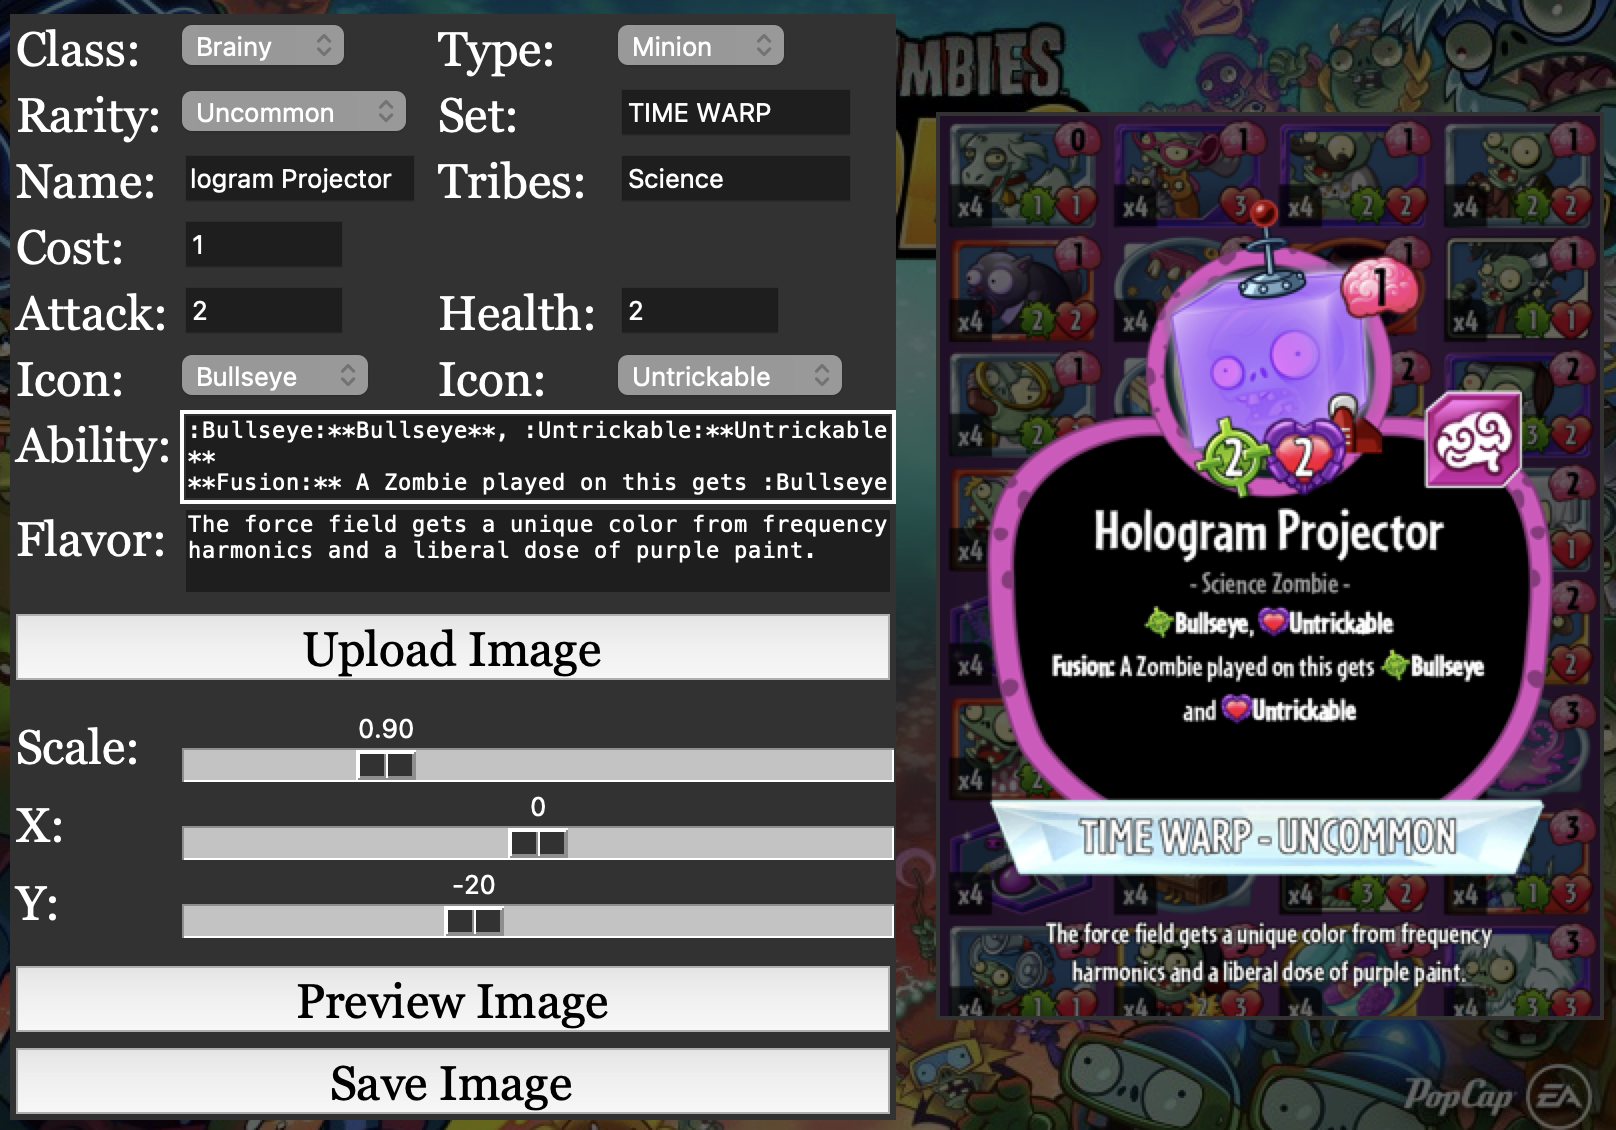
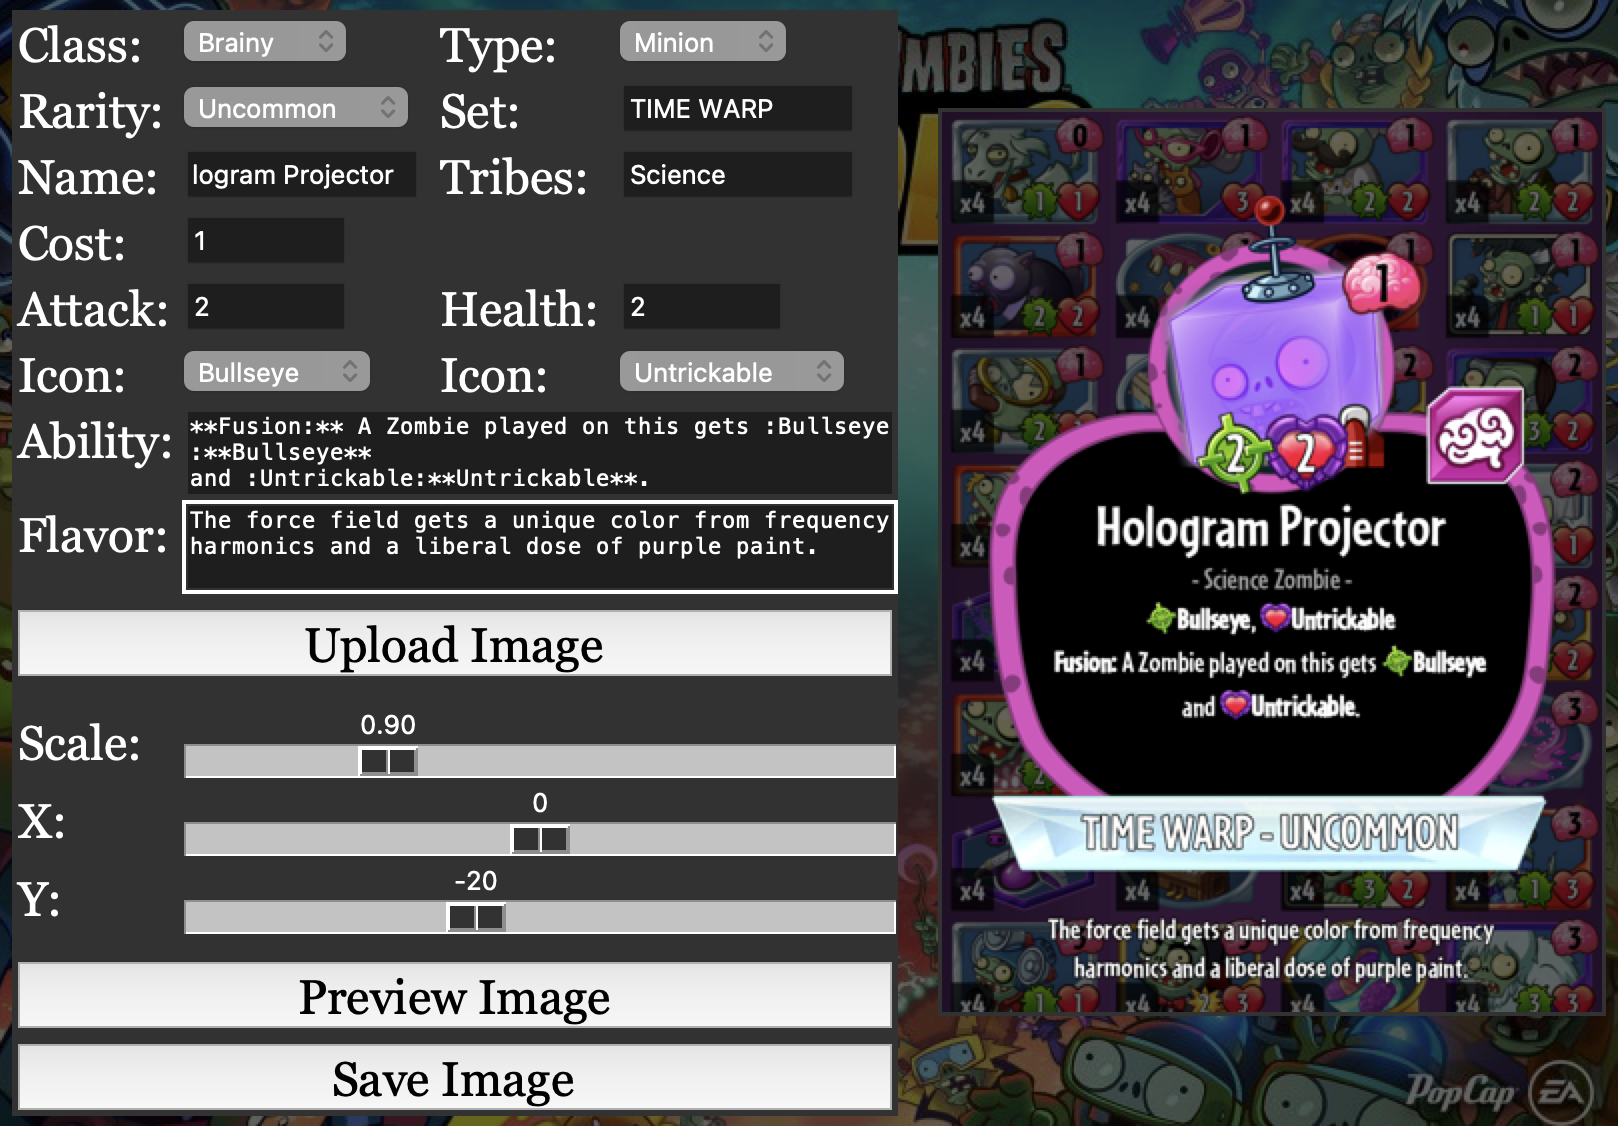
Updated readme.md

diff --git a/readme.md b/readme.md
@@ -2,10 +2,6 @@
 
 A Python script for generating images of custom cards, in a format similar to as they would appear in-game. Use the "preview image" button to update the image preview with any changes, and use the "save image" button to save the card image as a file.
 
-You need to manually choose where to split the card and flavor text into multiple lines, the program can't do that automatically yet.
-
-Currently does not support formatting (e.g. bold text, colored text, etc.) or icons (e.g. keyword symbols, plus/minus attack/hp symbols, etc.) in the card text.
-
 This script requires a reasonably up to date Python environment to function properly. I'm not good enough at Python to know exactly what versions are required, but following a reasonably recent tutorial for installing Python and PIL should do the job.
 
 I have only tested the program on macOS so there is a small chance that it doesn't work as expected on other systems.
@@ -18,5 +14,13 @@ I have only tested the program on macOS so there is a small chance that it doesn
 ## Running the Program
 
 Run the app using Command Line/Terminal with ```python image_generator.py``` while in the folder containing ```generator.py```. Make sure the location of image assets is not changed relative to the Python script.
+
+## Usage Tips
+
+- You need to manually choose where to split the card and flavor text into multiple lines, the program can't do that automatically yet.
+- Surround text in double asterisks for boldface: ```**Bold**``` produces **Bold**.
+- To use game icons, surround the name of the icon in colons: ```:Strikethrough:``` produces <img src="Icons/Strikethrough.png" width="24" height="24"/>.
+    - You can add numbers like 4, +2, or -3 after the name of the icon to overlay that number on top of the icon: ```:Strength+3:``` produces the <img src="Icons/Strength.png" width="24" height="24"/> symbol with +3 written on it.
+    - See the Icons folder for a full list of supported icons and their names.
 
 ![Sample usage](Sample.png)
